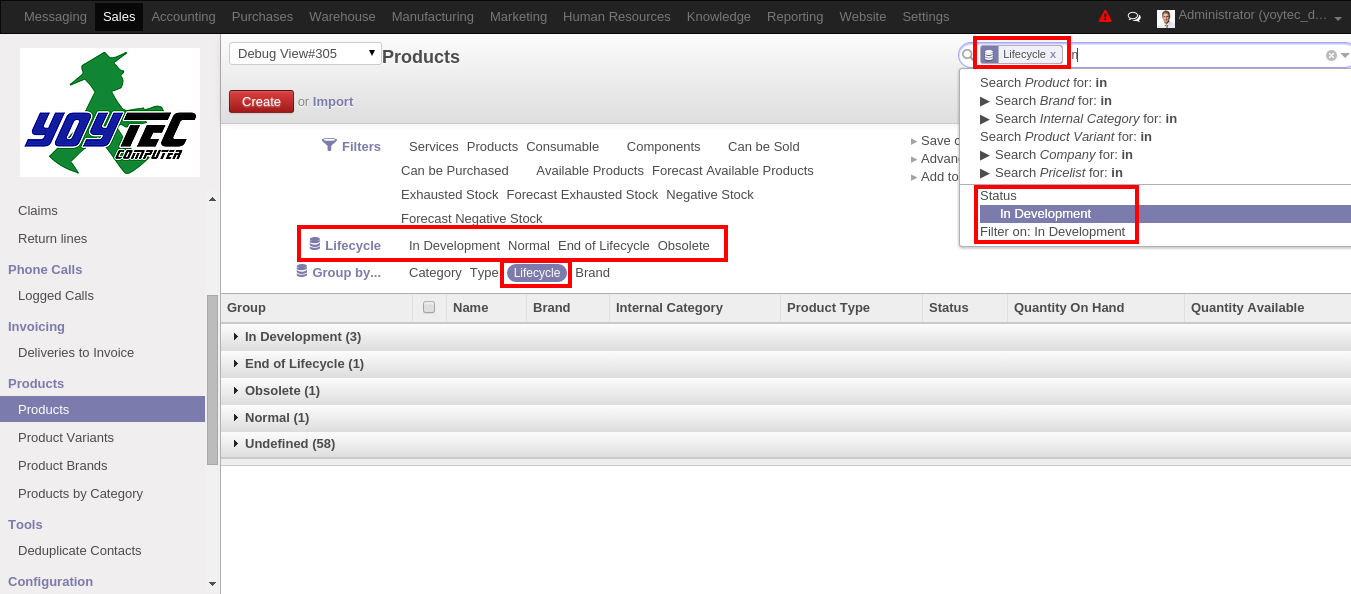
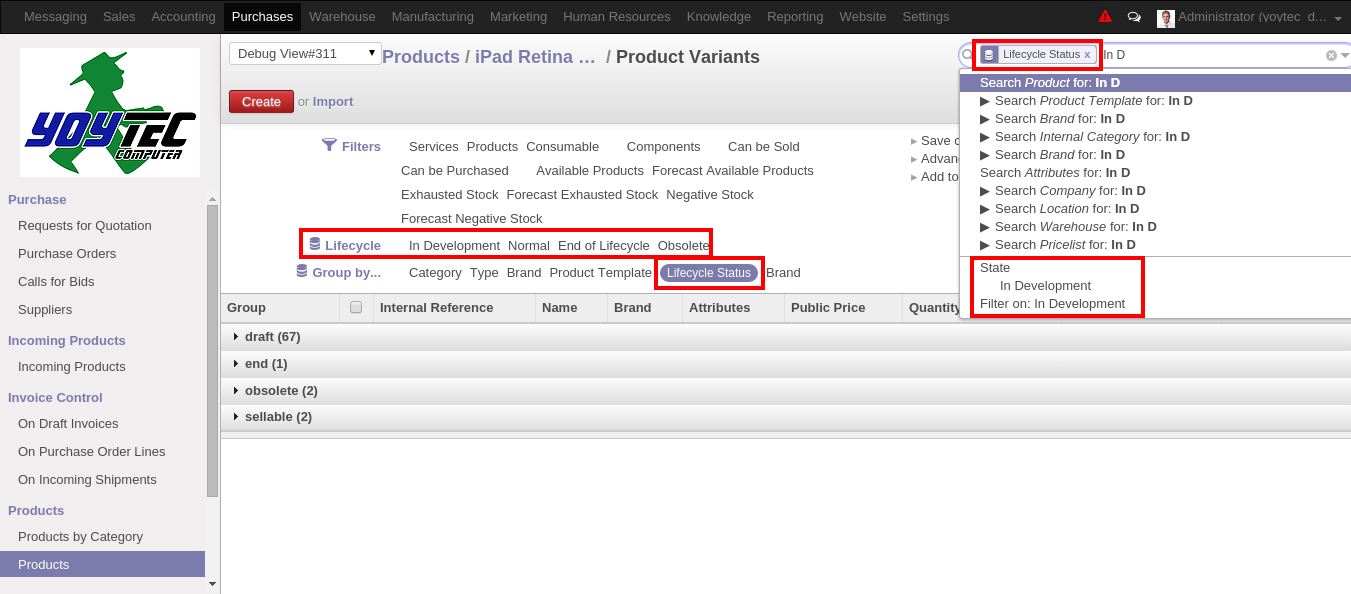
[ADD] update description of the module.

diff --git a/product_lifecycle/static/description/index.html b/product_lifecycle/static/description/index.html
@@ -3,11 +3,26 @@
         <h2 class="oe_slogan">Product Lifecycle</h2>
         <h3 class="oe_slogan">Replacement a Discontinued Product</h3>
         <div class="oe_span6">
-            <p class='oe_mt32'>
+            <p>
                 This module apply a part of the product lifecycle management
-                concept by extending the logic of the fields status in odoo
-                and by adding a list of repaclement products that will be used
-                when a product is discontinued.
+                concept by extending the logic of the field
+                <code class="docutils literal">Status</code> defined in
+                the Odoo base modules and by adding a list of repaclement
+                products that will be used as alternatives in purchase
+                operations when a product is discontinued.
+            </p>
+        </div>
+        <div class="oe_span6">
+            <p>
+                Odoo manage a informative status field in the
+                <code class="docutils literal"> Product Template</code>
+                when you can know the product liecycle status. This module
+                hide this not used functionality and used a similar status
+                field in the
+                <code class="docutils literal">Product Variant</code>.
+                This way we can differenciate when a specific variant is
+                discontinued and what other products are possible
+                replacements.
             </p>
         </div>
     </div>
@@ -17,22 +32,38 @@
     <h2 class="oe_slogan">Lifecycle Status</h2>
 
     <div class="oe_row">
+    <div class="oe_row">
+        <div class="oe_span6">
+            <p class='oe_mt32'>
+                You can check the status of Products Variants form the Product
+                Template form view by checking the
+                <code class="docutils literal">Status</code> section in the
+                <code class="docutils literal">Inventory</code> Tab. You will
+                find a list of the Products Variants and its current status.
+            </p>
+        </div>
+        <div class="oe_span6">
+            <img class="oe_picture oe_screenshot" src="product.template.status.png">
+        </div>
+    </div>
         <div class="oe_span6">
             <img class="oe_picture oe_screenshot" src="product.statusbar.png">
         </div>
         <div class="oe_span6">
             <p class='oe_mt32'>
-                The Status of the product now is manage in the header of the
-                product form view as a clickable statusbar widget and with
-                default value `In Development`.
+                The status of the Product Variant is manage in the header of
+                form view as a clickable statusbar widget and with default
+                value <code class="docutils literal">In Development</code>.
             </p>
         </div>
     </div>
+
     <div class="oe_row">
         <div class="oe_span6">
             <p class='oe_mt32'>
                 Also some search filters were added to search and group by
-                products lifecycle status.
+                products lifecycle status. Just go to a Product Variant list
+                view and filter.
             </p>
         </div>
         <div class="oe_span6">
@@ -50,9 +81,53 @@
         </div>
         <div class="oe_span6">
             <p class='oe_mt32'>
-                A new field named `Replacement Products` were added to
-                hold a list of products that can be use as a replacement when
-                the current product is discontinued.
+                A new field named
+                <code class="docutils literal">Replacement Products</code>
+                was added to the Product Variant to  hold a list of products
+                that can be use as a replacement in purchase operations when
+                a product is discontinued.
+            </p>
+        </div>
+    </div>
+    <div class="oe_row">
+        <div class="oe_span6">
+            <p class='oe_mt32'>
+                This module restrict the purchase orders to can not have
+                discontinued products. When creating or editing a purchase
+                order you will see a new field named
+                <code class="docutils literal">Discontinued Product</code>
+                at the order lines. This field register when a replacement of
+                a discontinued product have been made. The line show the
+                information of the replaced product (discontinued) and the
+                replacement product.
+            </p>
+        </div>
+        <div class="oe_span6">
+            <img class="oe_picture oe_screenshot" src="purchase.order.line.discontinued.png">
+        </div>
+    </div>
+
+    <div class="oe_row">
+        <div class="oe_span6">
+            <img class="oe_picture oe_screenshot" src="purchase.order.line.warning.png">
+        </div>
+        <div class="oe_span6">
+            <p class='oe_mt32'>
+                If you fill
+                <code class="docutils literal">Discontinued Product</code>
+                field the
+                <code class="docutils literal">Product</code>
+                field will be filter with the good replacements products
+                (active and not obsolete products marked as a replacements of
+                the current discontinued product).
+
+                In other case, if the user try to fill the
+                <code class="docutils literal">Product</code>
+                field with a discontinued product will show a warning
+                indicating that can not use a discontinued product in the
+                purchase order and will move this value to the Discontinued
+                Product field and clean the Product field so you can select a
+                replacement.
             </p>
         </div>
     </div>
@@ -76,7 +151,10 @@
     <div class="oe_row">
         <div class="oe_span6">
             <p class='oe_mt32'>
-                A new access rules over the `Products` and `Product Variants`
+                A new access rules over the
+                <code class="docutils literal">Products</code>
+                and
+                <code class="docutils literal">Product Variants</code>
                 records were added. A product only can be edited by his
                 product manager.
             </p>
